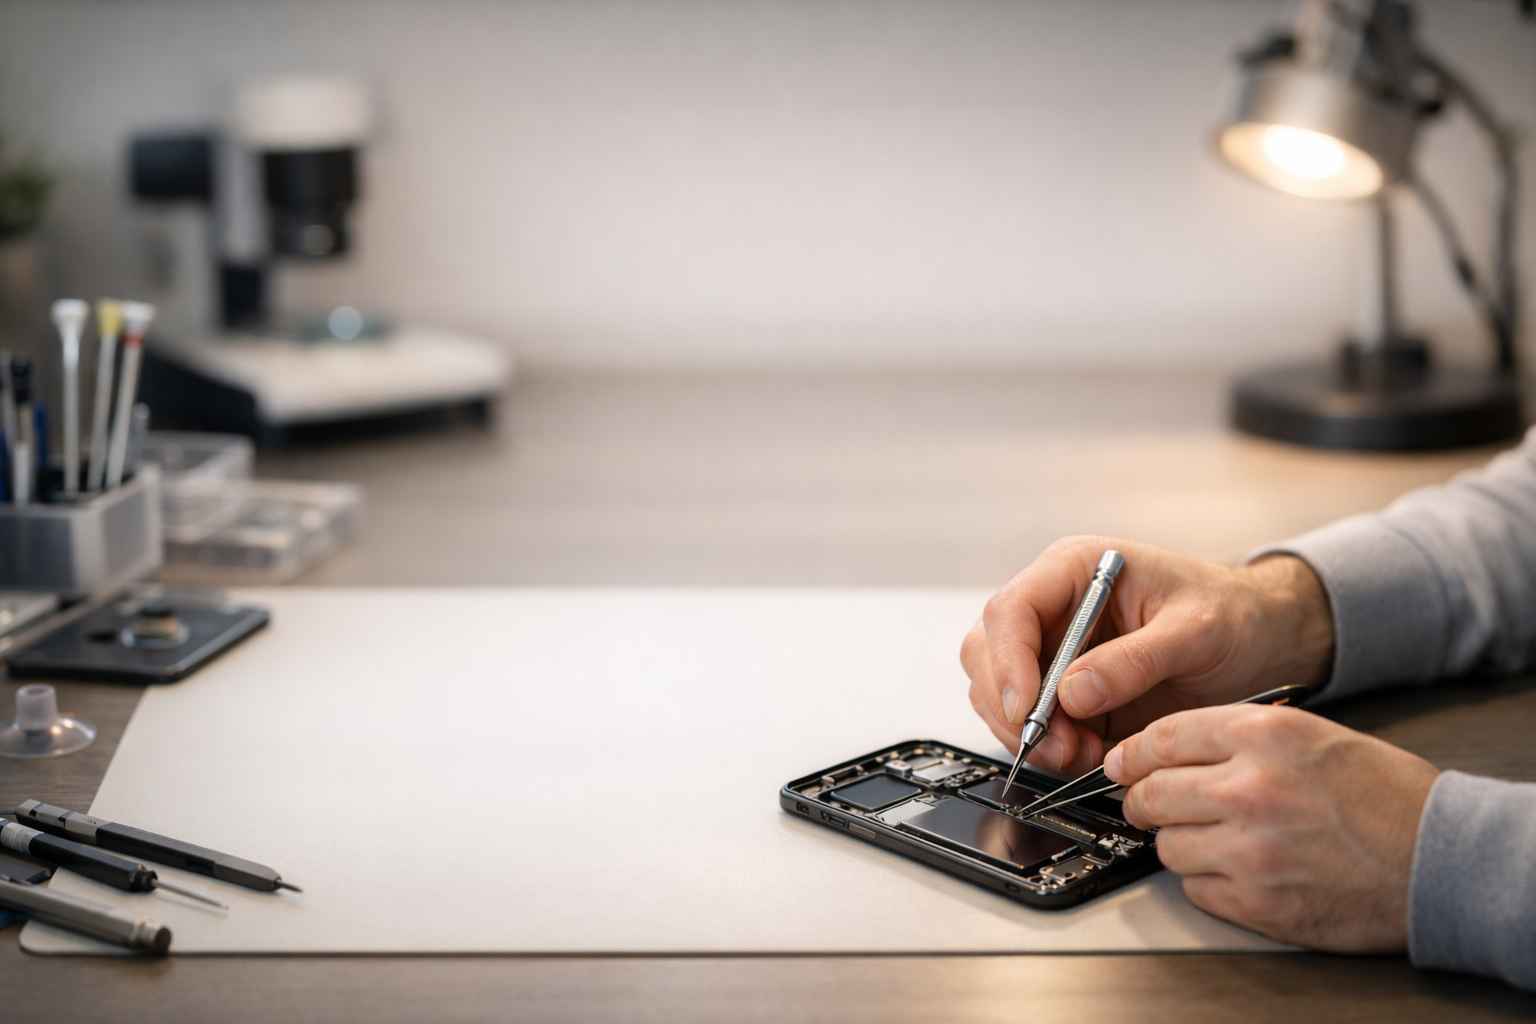
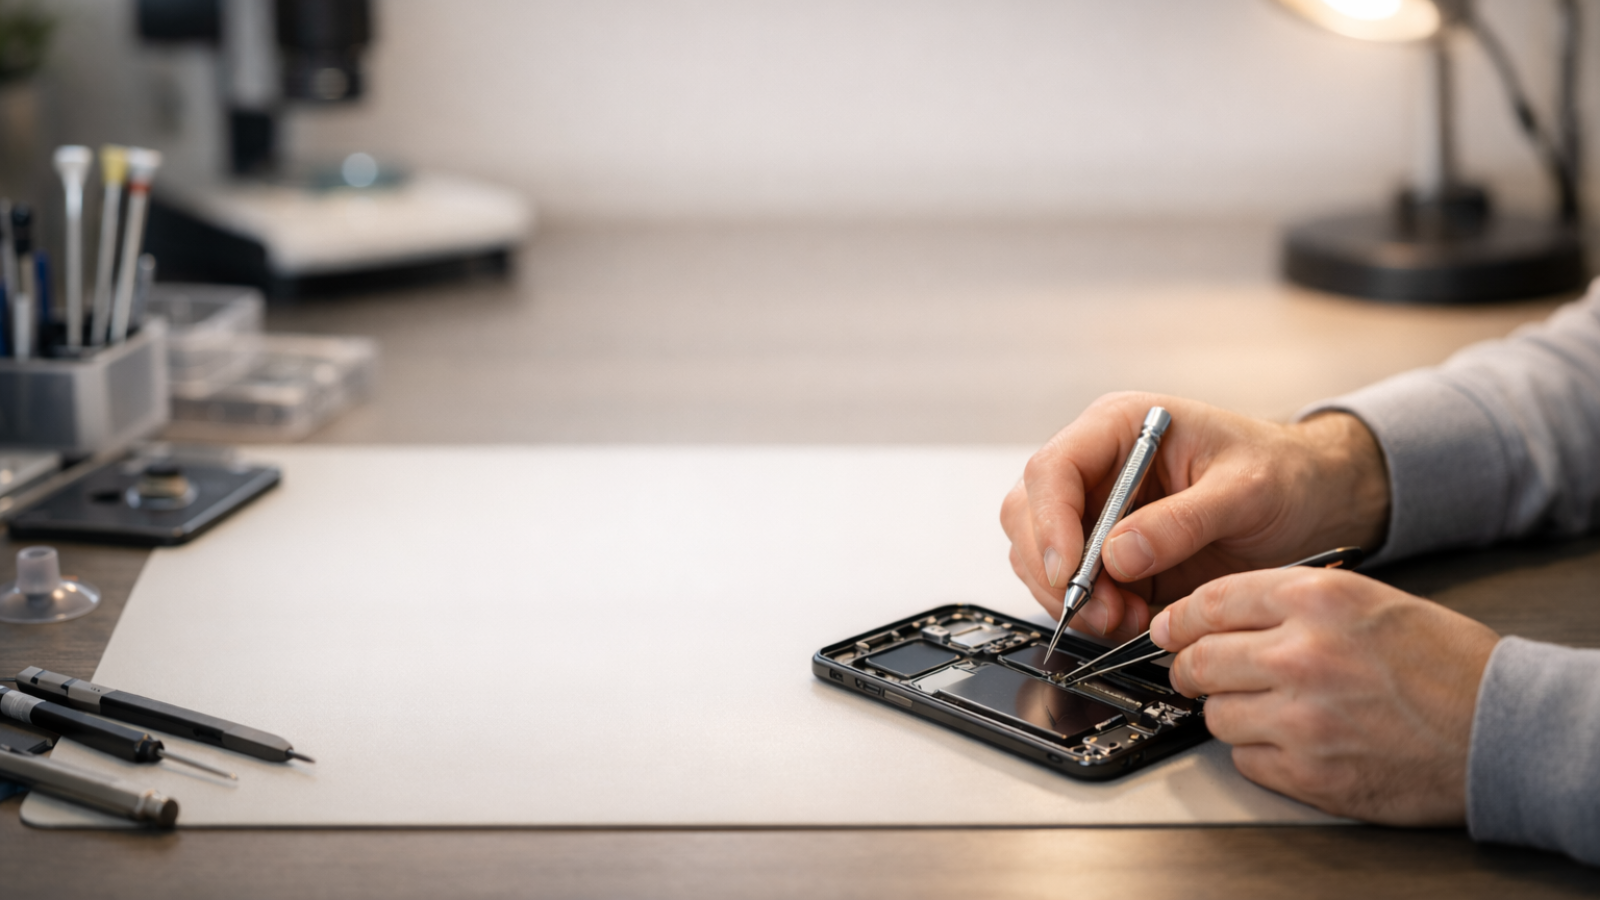
Changes

diff --git a/src/components/Hero.tsx b/src/components/Hero.tsx
@@ -42,22 +42,24 @@ export const Hero = () => {
         src={repairBench}
         alt=""
         aria-hidden="true"
-        className="absolute inset-0 w-full h-full object-cover object-[75%_80%] md:object-[75%_80%]"
+        className="absolute inset-0 w-full h-full object-cover object-[right_center] md:object-[75%_80%]"
+        style={{ objectPosition: undefined }}
         loading="eager"
         fetchPriority="high"
       />
 
-      {/* Gradient overlay: strong left, light right, subtle green tint */}
-      <div className="absolute inset-0 bg-gradient-to-r from-background/[0.92] via-background/[0.78] to-background/[0.15]" />
+      {/* Horizontal scrim: left opaque → right transparent */}
+      <div className="absolute inset-0 bg-gradient-to-r from-background/[0.95] via-background/[0.80] to-background/[0.12]" />
+      {/* Subtle brand tint */}
       <div className="absolute inset-0 bg-gradient-to-r from-primary/[0.04] via-primary/[0.02] to-transparent" />
-      {/* Bottom fade for smooth transition */}
-      <div className="absolute inset-x-0 bottom-0 h-24 bg-gradient-to-t from-background to-transparent" />
+      {/* Vertical fade: bottom fades into page */}
+      <div className="absolute inset-x-0 bottom-0 h-32 bg-gradient-to-t from-background to-transparent" />
 
-      {/* Mobile: stronger overlay for readability */}
-      <div className="absolute inset-0 bg-background/[0.55] md:hidden" />
+      {/* Mobile: extra overlay for readability */}
+      <div className="absolute inset-0 bg-background/[0.60] md:hidden" />
 
       <div className="container relative py-14 md:py-20 lg:py-24" style={{ minHeight: 'min(720px, 85vh)' }}>
-        <div className="max-w-xl lg:max-w-2xl text-left">
+        <div className="max-w-xl lg:max-w-[600px] text-left">
           {/* Location badge */}
           <div className="inline-flex items-center gap-2 px-4 py-2 rounded-full bg-card/80 backdrop-blur-sm border border-border text-sm font-medium text-muted-foreground mb-5 animate-fade-in">
             <MapPin className="w-4 h-4 text-primary" />
@@ -76,28 +78,24 @@ export const Hero = () => {
           </p>
 
           {/* CTA Buttons */}
-          <div className="flex flex-col sm:flex-row items-start gap-3 mb-6 animate-slide-up" style={{ animationDelay: '0.2s' }}>
+          <div className="flex flex-col sm:flex-row items-start gap-3 mb-2 animate-slide-up" style={{ animationDelay: '0.2s' }}>
             <Button variant="whatsapp" size="xl" asChild onClick={handleWhatsAppClick}>
               <a href={getWhatsAppUrl()} target="_blank" rel="noopener noreferrer">
                 <MessageCircle className="w-5 h-5" />
                 WhatsApp for a quick quote
               </a>
             </Button>
-            <div className="flex items-center gap-3">
-              <Button variant="cta" size="lg" asChild>
-                <a href={LOCATIONS.zebbug.phoneUrl} onClick={() => trackEvent('call_click', { source: 'hero' })}>
-                  <Phone className="w-5 h-5" />
-                  Call
-                </a>
-              </Button>
-              <Button variant="heroSecondary" size="lg" asChild onClick={() => trackEvent('directions_click', { source: 'hero' })}>
-                <a href="#locations">
-                  <MapPin className="w-5 h-5" />
-                  Get directions
-                </a>
-              </Button>
-            </div>
+            <Button variant="cta" size="lg" asChild>
+              <a href={LOCATIONS.zebbug.phoneUrl} onClick={() => trackEvent('call_click', { source: 'hero' })}>
+                <Phone className="w-5 h-5" />
+                Call us
+              </a>
+            </Button>
           </div>
+          {/* Microcopy */}
+          <p className="text-xs text-muted-foreground mb-6 animate-slide-up" style={{ animationDelay: '0.22s' }}>
+            Fast replies during opening hours.
+          </p>
 
           {/* Social proof badges */}
           <div className="flex flex-col sm:flex-row items-start gap-4 mb-8 animate-slide-up" style={{ animationDelay: '0.25s' }}>
@@ -140,10 +138,10 @@ export const Hero = () => {
         </div>
       </div>
 
-      {/* Instant Quote block - below the hero image area */}
-      <div className="relative bg-background">
-        <div className="container py-8">
-          <div className="bg-card border border-border rounded-xl p-5 max-w-lg mx-auto text-left">
+      {/* Instant Quote card: overlaps hero bottom on desktop */}
+      <div className="relative md:-mt-16 z-10">
+        <div className="container pb-8 md:pb-12">
+          <div className="bg-card border border-border rounded-xl p-5 max-w-lg mx-auto text-left shadow-lg">
             <p className="text-sm font-semibold text-foreground mb-3 text-center">Instant quote</p>
             
             {/* Device type */}
